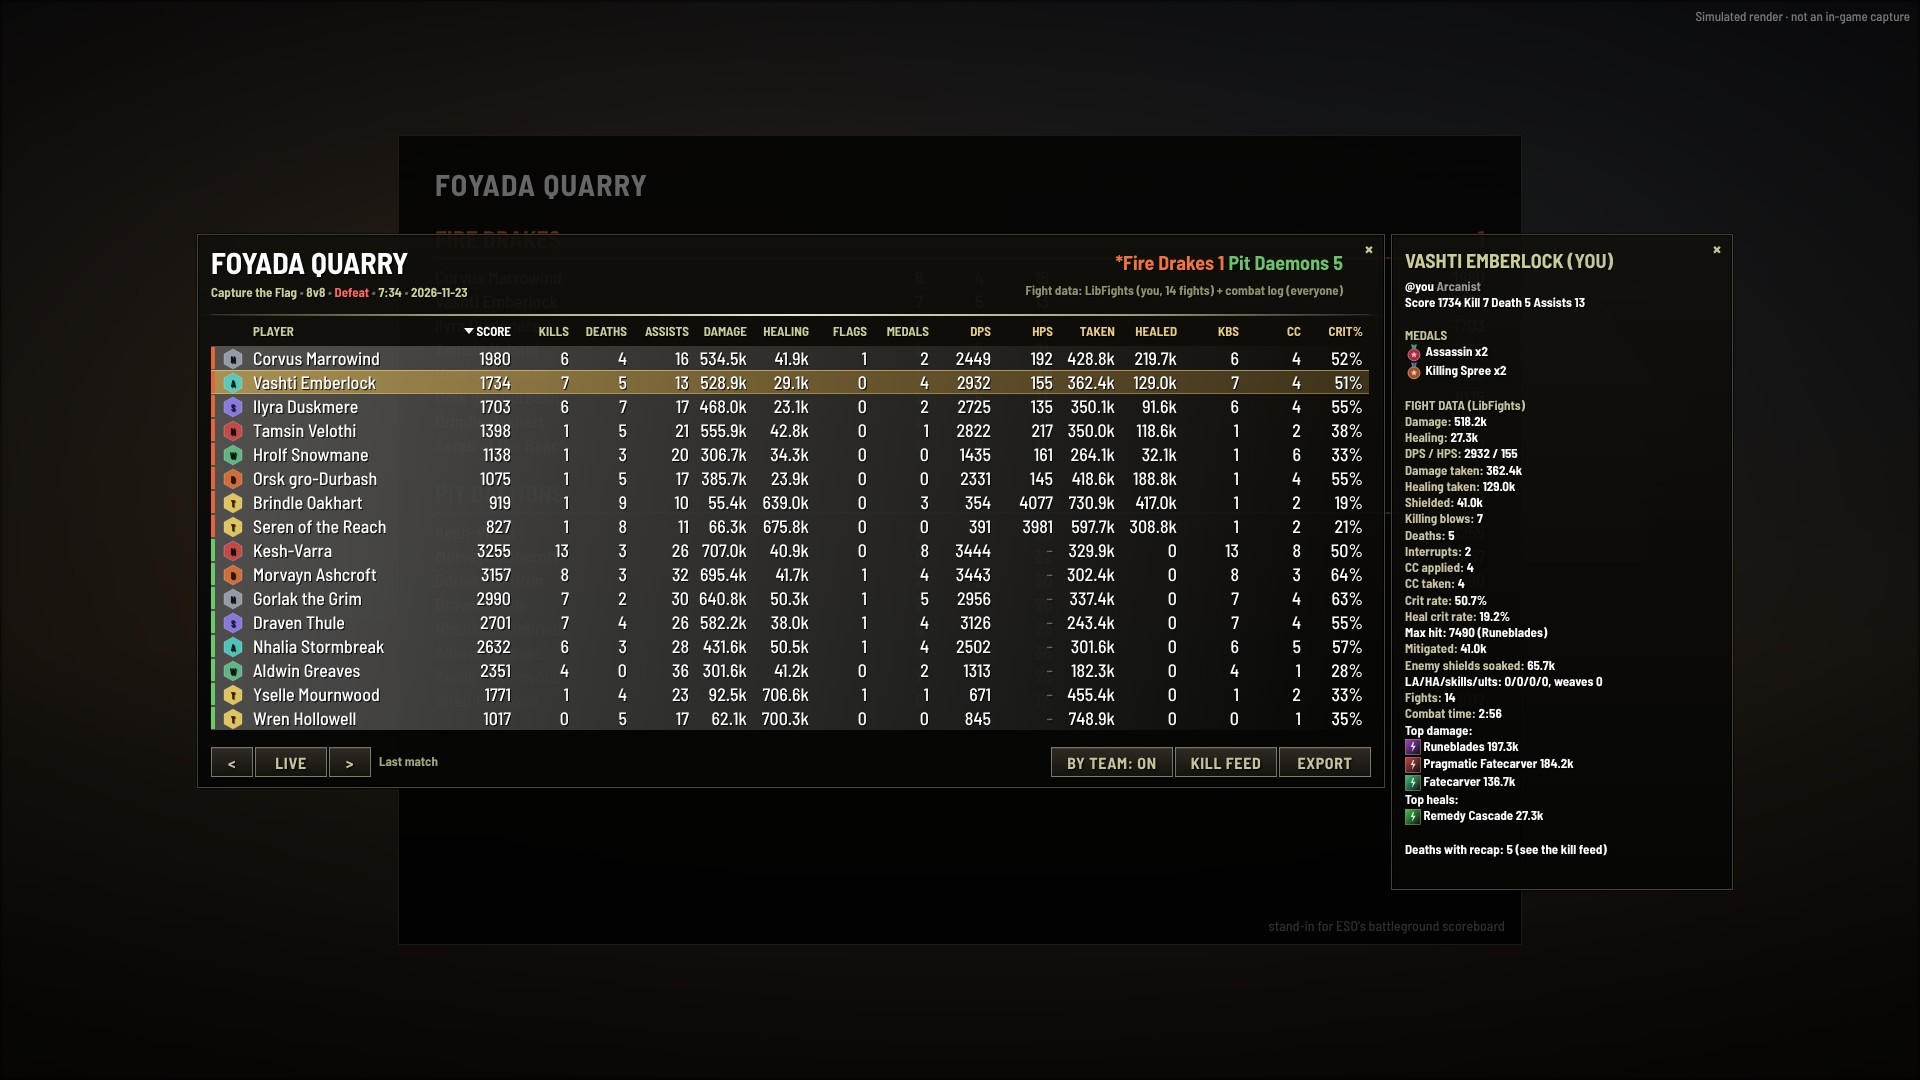
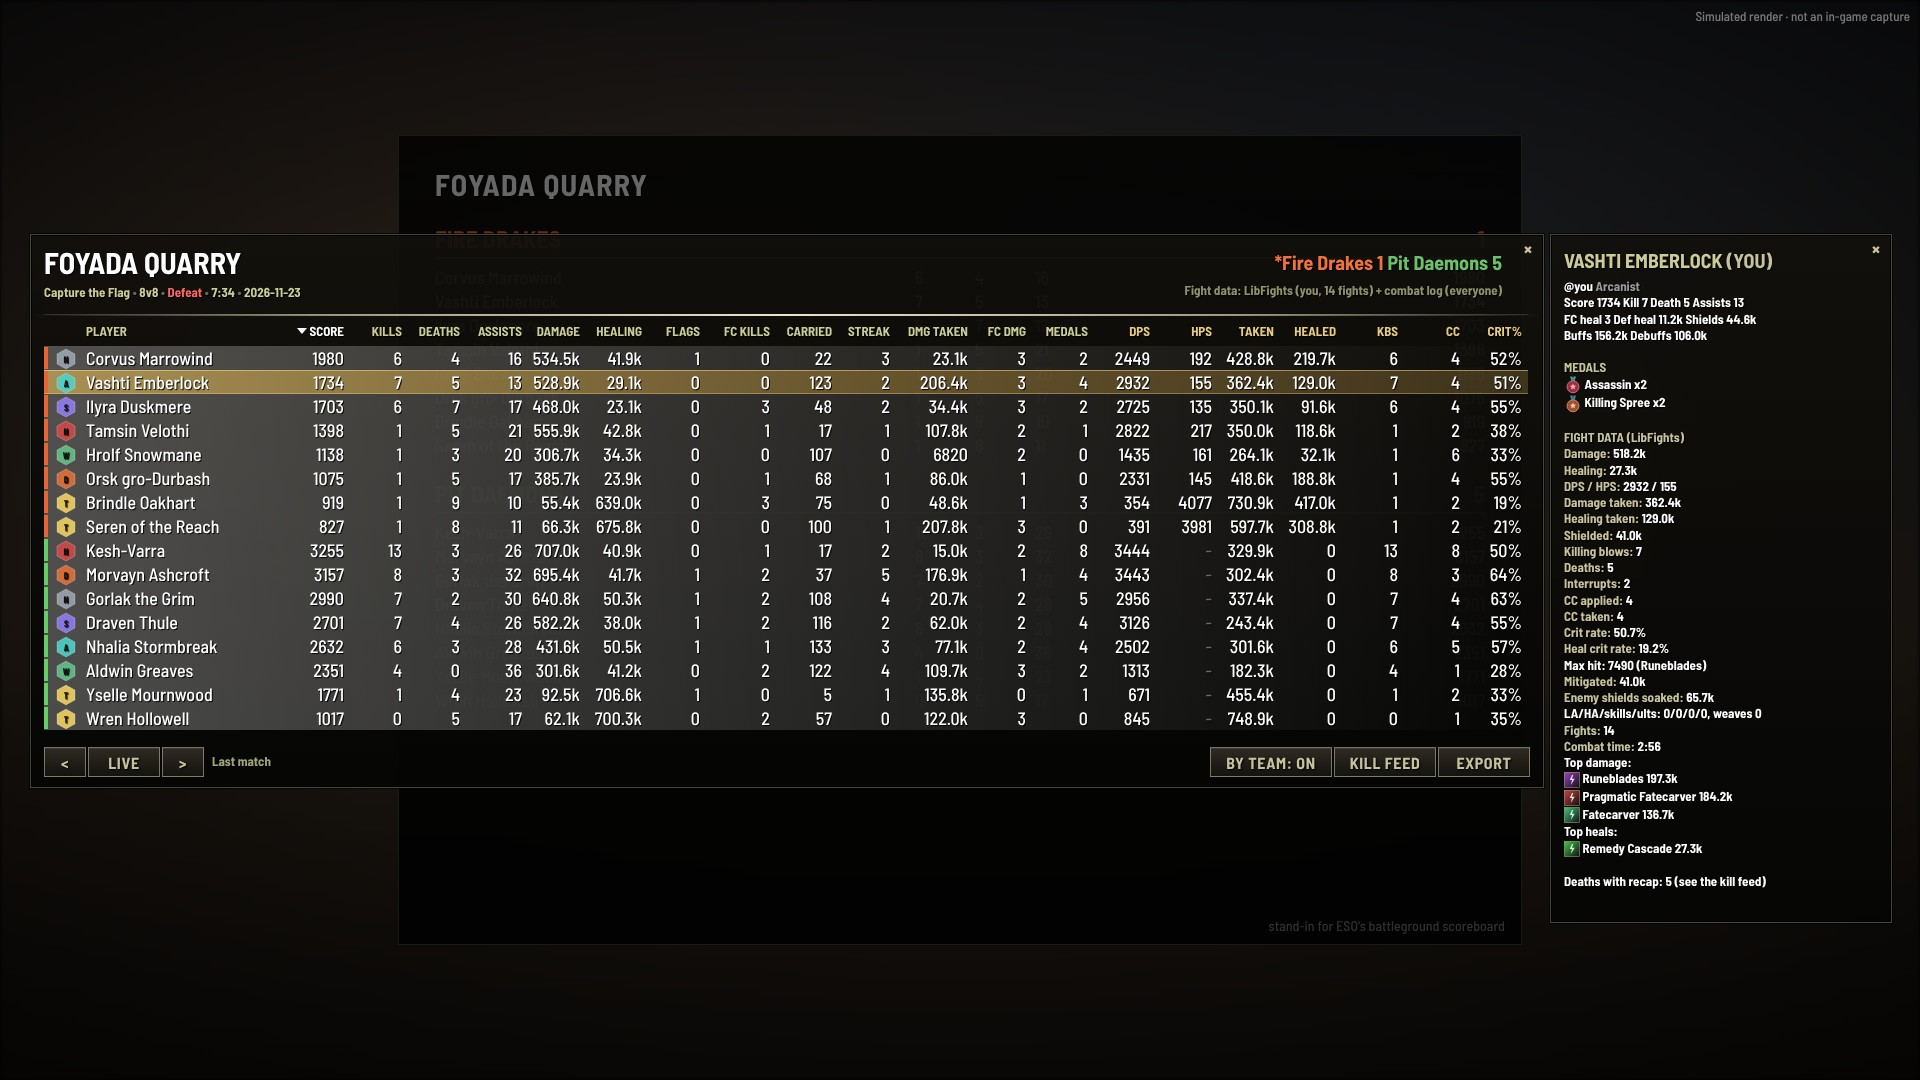
Keep the PC scoreboard and records window on screen
The client defines 20 score types; with all of them the PC table was 2506 px
wide. Score columns now have short names and a priority, and the table drops
the least important columns until it fits the UI canvas (dropped stats stay
in the details pane). Rows scroll with the mouse wheel when they don't fit,
the details pane opens over the panel when there's no room beside it, the
position is clamped to the screen, and the records window scales down on
smaller canvases. The simulator now uses the full score list and can run at
other canvas sizes (SIM_GUIROOT); the renderer supports SetScale.

Claude-Session: https://claude.ai/code/session_01DQVQLHZ3FZwfm2nCUdtVnP

Changed region(s): [[0.0, 0.2139, 0.9375, 0.825]]

diff --git a/tools/render.js b/tools/render.js
@@ -37,7 +37,7 @@ const FACES = {
 
 // Runs inside the page: resolve layout, draw.
 function pageMain(screen, native, FONTS, FACES) {
-  const W = 1920, H = 1080;
+  const W = screen.rootW || 1920, H = screen.rootH || 1080; // GuiRoot (SIM_GUIROOT)
   const nodes = new Map();
   const parentOf = new Map();
   (function index(list, parent) {
@@ -174,11 +174,14 @@ function pageMain(screen, native, FONTS, FACES) {
     while (cur != null) { const n = nodes.get(cur); a *= n.alpha ?? 1; cur = parentOf.get(cur); }
     return a;
   }
+  // Control:SetScale: the subtree is laid out unscaled, then scaled about the
+  // control's anchor point (ESO keeps the anchor fixed and scales size and children)
+  let target = null;
   function el(r, css, html = "") {
     const d = document.createElement("div");
     d.style.cssText = `position:absolute;left:${r.x}px;top:${r.y}px;width:${Math.max(0, r.w)}px;height:${Math.max(0, r.h)}px;${css}`;
     d.innerHTML = html;
-    stage.appendChild(d);
+    (target || stage).appendChild(d);
     return d;
   }
   function draw(n) {
@@ -213,7 +216,18 @@ function pageMain(screen, native, FONTS, FACES) {
       el(r, `display:flex;justify-content:${jh};align-items:${jv};text-align:${n.halign || "left"};overflow:hidden;color:${rgba(c, a)};font:${f.css};line-height:1.25;text-shadow:${shadow};${n.upper ? "text-transform:uppercase;" : ""}`,
         `<span style="${single ? "white-space:nowrap;overflow:hidden;text-overflow:ellipsis;max-width:100%;display:block" : ""}">${markup(n.text)}</span>`);
     }
+    const scaled = n.scale != null && n.scale !== 1;
+    const saved = target;
+    if (scaled) {
+      const a0 = n.anchors[0] || ["CENTER"];
+      const px = r.x + FX[a0[0]] * r.w, py = r.y + FY[a0[0]] * r.h;
+      const box = document.createElement("div");
+      box.style.cssText = `position:absolute;left:0;top:0;width:${W}px;height:${H}px;transform-origin:${px}px ${py}px;transform:scale(${n.scale})`;
+      (target || stage).appendChild(box);
+      target = box;
+    }
     for (const ch of n.children) draw(ch);
+    target = saved;
   }
 
   // stand-ins for what ESO draws itself
@@ -381,9 +395,10 @@ function pageMain(screen, native, FONTS, FACES) {
   const errors = [];
   page.on("pageerror", e => errors.push(e.message));
   for (const screen of data.screens) {
+    await page.setViewportSize({ width: screen.rootW || 1920, height: screen.rootH || 1080 });
     await page.setContent(`<!doctype html><html><head><meta charset="utf-8">
       <link rel="stylesheet" href="https://fonts.googleapis.com/css2?family=Barlow+Condensed:wght@300;500;700&family=Barlow+Semi+Condensed:wght@500;700&display=block">
-      <style>html,body{margin:0;background:#000}#stage{position:relative;width:1920px;height:1080px;overflow:hidden}.ic{display:inline-block;vertical-align:middle}.ic svg{display:block}</style>
+      <style>html,body{margin:0;background:#000}#stage{position:relative;width:${screen.rootW || 1920}px;height:${screen.rootH || 1080}px;overflow:hidden}.ic{display:inline-block;vertical-align:middle}.ic svg{display:block}</style>
       </head><body><div id="stage"></div></body></html>`, { waitUntil: "networkidle" });
     await page.evaluate(() => document.fonts.ready);
     await page.evaluate(([s, n, F, FA, src]) => { eval(src); pageMain(s, n, F, FA); },

diff --git a/README.md b/README.md
@@ -115,6 +115,12 @@ Matches are saved in `SavedVariables/ScoreboardRemastered.lua`
 - **Click a row** to open its details beside the panel: medals, every fight stat, top
   abilities and the you-vs-them breakdown. Click the row again, or the X, to close.
 - Click a column header to sort. Hover a header to see what it measures.
+- **Fits any screen.** The panel sizes itself to ESO's UI canvas, which depends on your
+  resolution and UI scale. If all the columns don't fit, the least important ones go
+  first: you-vs-them, then minor score types (buffs, shields, flag-carrier healing...),
+  then the less-used fight stats. Anything dropped is still in the details pane. With
+  more players than fit, the mouse wheel scrolls the table. On a small canvas, the
+  details pane opens over the panel. The records window scales down to fit.
 - `<` `Live` `>` browse saved matches. **Export** gives a CSV and **Kill feed** gives
   the kill log, both in a pre-selected box ready for Ctrl+C.
 - Keybinds: *Controls → Scoreboard Remastered*.
@@ -252,6 +258,9 @@ out with ESO's anchor rules and draws them in a headless browser.
 
 Rendering the real layout at ESO's real font sizes found layout bugs that are now fixed:
 - The PC panel was wider than the screen.
+- With all 20 of the game's score types, the PC panel was 2506 px wide (ESO's canvas is
+  1920 at most UI scales). Score columns now have short names and a priority, the table
+  drops columns to fit the canvas, and the simulator uses the client's full score list.
 - Column headers were truncated.
 - The details pane and the records dialog ran into the gamepad button bar.
 - The stat tiles drew their text badge over the icon.
@@ -302,6 +311,9 @@ python3 tools/check-api.py <path-to>/esoui/ESOUIDocumentation.txt
 lua5.1 tools/simulate.lua . <path-to>/LibFights out/match.json out/screens.json
 node tools/render.js out/screens.json docs/screenshots   # needs Playwright + Chromium
 ```
+
+`SIM_GUIROOT=1366x768` (or any size) runs the simulation on a smaller UI canvas, as
+with a low resolution or a large UI scale, and the renderer draws at that size.
 
 ## Notes
 
